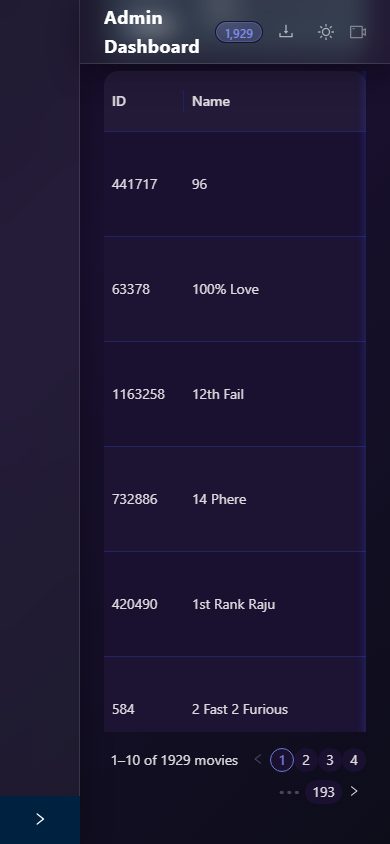
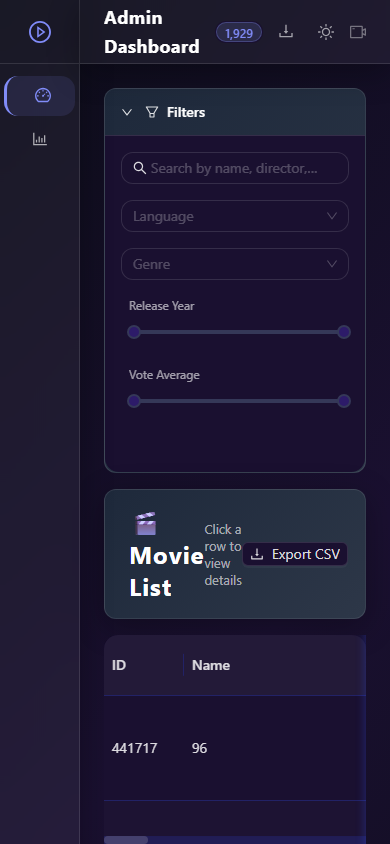
fix(layout): auto-collapse sidebar below 768px for mobile usability
Sidebar previously stayed fully expanded on narrow viewports,
  squeezing the table into an unusable column. Drive collapsed
  state from Ant Design's Grid.useBreakpoint() (md breakpoint),
  synced via render-phase setState rather than a useEffect to
  satisfy eslint-plugin-react-hooks's set-state-in-effect rule.
  Manual collapse toggle still works within a breakpoint.

  Regenerate docs/screenshots/mobile.png, update README/features.txt/
  CLAUDE.md/CHANGELOG.md, bump package.json to 0.2.1.

diff --git a/src/App.tsx b/src/App.tsx
@@ -1,6 +1,6 @@
 import React, { Suspense, useState } from 'react';
 import { BrowserRouter as Router, Routes, Route, useLocation, useNavigate } from 'react-router-dom';
-import { Layout, Result, Button, Spin, ConfigProvider, theme as antdTheme } from 'antd';
+import { Layout, Result, Button, Spin, ConfigProvider, Grid, theme as antdTheme } from 'antd';
 import { MoviesProvider } from './contexts/MoviesContext';
 import { ThemeProvider, useTheme } from './contexts/ThemeContext';
 import Sidebar from './components/Sidebar';
@@ -46,6 +46,13 @@ const AppContent: React.FC = () => {
   const location = useLocation();
   const [collapsed, setCollapsed] = useState(false);
   const { isDark } = useTheme();
+  const screens = Grid.useBreakpoint();
+  const [prevMd, setPrevMd] = useState(screens.md);
+
+  if (screens.md !== prevMd) {
+    setPrevMd(screens.md);
+    setCollapsed(!screens.md);
+  }
 
   return (
     <ConfigProvider

diff --git a/CLAUDE.md b/CLAUDE.md
@@ -39,3 +39,4 @@ Guidance for Claude Code (or any AI agent) working in this repo.
 - **StrictMode double-invoke + ref-gated effects.** `React.StrictMode` (enabled in `src/main.tsx`) mounts, cleans up, and remounts effects once in dev. Any effect that uses a ref to skip re-running "if nothing changed" (e.g. the stat-card count-up animation in `src/components/StatsTabs/OverviewTab.tsx`) must reset that ref in its cleanup function, or the synchronous remount will see "unchanged" and silently no-op — intervals/animations get cleared but never restarted. If you add a similar animated-counter or ref-gated effect elsewhere, apply the same pattern: clear the ref in cleanup.
 - Don't reintroduce `as any` casts — `eslint.config.mjs` forbids `@typescript-eslint/no-explicit-any`. Use `as unknown as <ConcreteType>` when a third-party type (e.g. `chartjs-chart-matrix`'s `'matrix'` chart type) isn't in the base type registry.
 - Ant Design keeps inactive `Tabs` panes mounted (but hidden) by default — a broad selector like `.anticon-info-circle` in a test/script can match hidden elements from other tabs. Scope selectors to `.ant-tabs-tabpane-active` when working within a specific tab.
+- **No `@media` queries anywhere in `src/`.** Responsive behavior is driven entirely by Ant Design's `Grid.useBreakpoint()` hook (see `src/App.tsx` — sidebar auto-collapses below the `md` breakpoint, 768px). `eslint-plugin-react-hooks`'s `react-hooks/set-state-in-effect` rule forbids syncing that hook's output into state via `useEffect`; use the render-phase pattern instead (compare current value to a `prevX` state, call `setState` directly in the render body when it differs) — see `App.tsx` for the working example.

diff --git a/CHANGELOG.md b/CHANGELOG.md
@@ -3,6 +3,11 @@
 All notable changes to this project are documented in this file.
 Format follows [Keep a Changelog](https://keepachangelog.com/en/1.1.0/).
 
+## [0.2.1] - 2026-07-16
+
+### Fixed
+- Mobile/narrow-viewport layout — `Sidebar` now auto-collapses to icon rail below 768px via Ant Design's `Grid.useBreakpoint()`, instead of staying expanded and squeezing the table unusably narrow. Manual collapse toggle still works within a breakpoint. Implemented as a render-phase state sync (not a `useEffect`) to satisfy `eslint-plugin-react-hooks`'s `react-hooks/set-state-in-effect` rule. (`src/App.tsx`)
+
 ## [0.2.0] - 2026-07-16
 
 ### Added

diff --git a/README.md b/README.md
@@ -35,6 +35,7 @@ No hosted demo — this project runs locally against your own CSV dataset. See [
 - Sortable columns, pagination (5 / 10 / 20 / 50 per page)
 - Click any row to open a detail drawer with full movie info, vote count, and popularity score
 - Export filtered results to CSV
+- Sidebar auto-collapses to icon rail below 768px (Ant Design `md` breakpoint); manual toggle still works within a breakpoint
 
 ### Statistics — 6 tabs
 | Tab | Contents |
